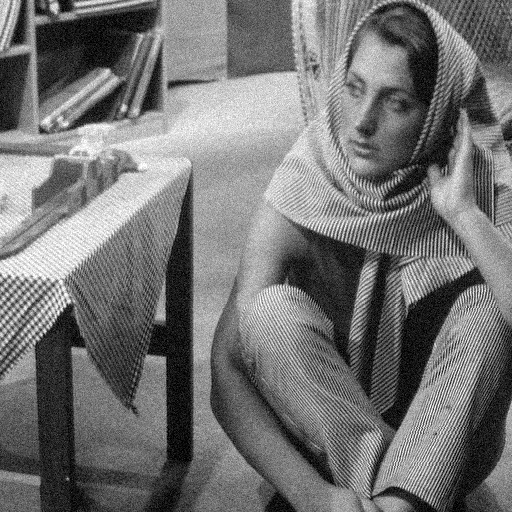
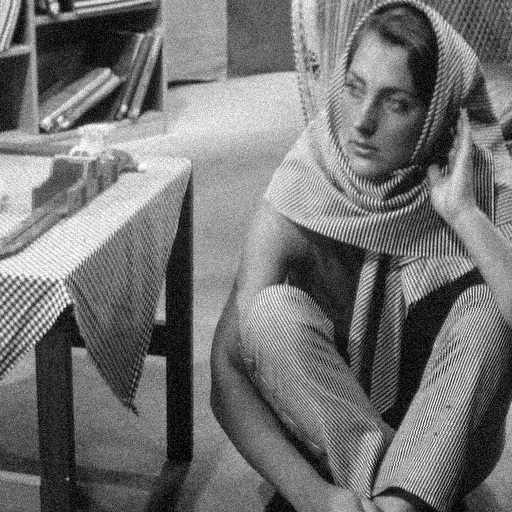
update

Changed region(s): [[0.0, 0.0, 1.0, 1.0]]

diff --git a/Week5/Tutorial/matlab_example/bilateral_filter/MainScript.m b/Week5/Tutorial/matlab_example/bilateral_filter/MainScript.m
@@ -2,18 +2,5 @@
 
 %% RMSD values for filtered images obtained with (i) 0.9 sigma_space and 1.0 sigma_intensity
 tic;
-myBilateralFiltering(5, 0.9, 1.0);
-toc;
-w = waitforbuttonpress;
-%% RMSD values for filtered images obtained with (ii) 1.1 sigma_space and 1.0 sigma_intensity
-tic;
-myBilateralFiltering(5, 1.1, 1.0);
-toc;
-%% RMSD values for filtered images obtained with (iii) 1.0 sigma_space and 0.9 sigma_intensity
-tic;
-myBilateralFiltering(5, 1.0, 0.9);
-toc;
-%% RMSD values for filtered images obtained with (iv) 1.0 sigma_space and 1.1 sigma_intensity
-tic;
-myBilateralFiltering(5, 1.0, 1.1);
+myBilateralFiltering(5, 6, 1);
 toc;

diff --git a/Week5/Tutorial/matlab_example/bilateral_filter/myBilateralFiltering.m b/Week5/Tutorial/matlab_example/bilateral_filter/myBilateralFiltering.m
@@ -8,6 +8,7 @@ original = mat2gray(f2);
 in_rows = size(original,1);
 in_cols = size(original,2);
 corrupted =  original + 0.05*randn(size(original));
+
 iMin=0;
 iMax=0;
 jMin=0;
@@ -82,12 +83,6 @@ daspect ([1 1 1]);
 axis tight;
 set(gcf,'Position',get(0,'ScreenSize'));%maximize figure
 
-figure(2);
-imagesc ((den)); % phantom is a popular test image
-colormap('Gray');
-title('Spacial Mask');
-daspect ([1 1 1]);
-axis tight;
 
 imwrite(corrupted,'images\barbaraCorrupted.png');
 imwrite(filtered,'images\barbaraBilateralFiltered.png');
